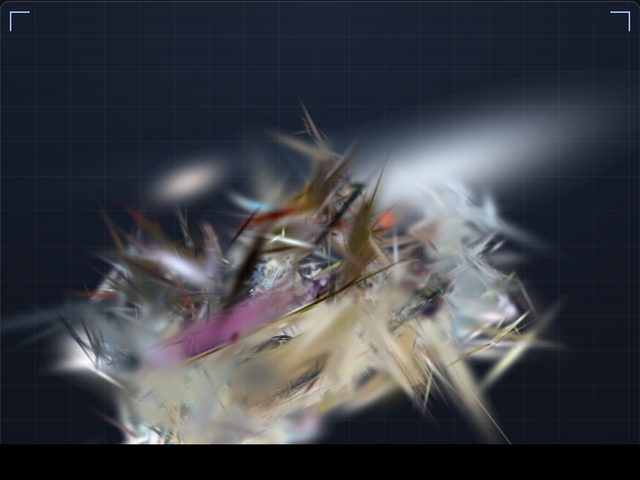
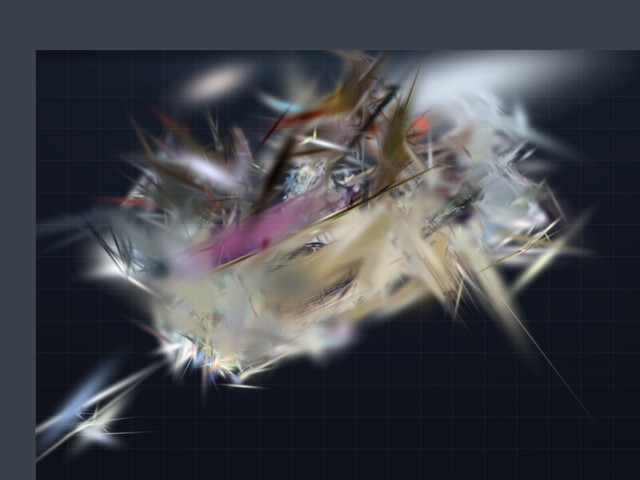
feat(展示): 三张鞋卡片各配真实缩略图 + 标题改成实验①②③ + 无指标显示「未测」
三张卡片原先共用同一张旧缩略图（裁切前的渲染、带视图角标、主体偏心），场景库里完全分不出差别。

- 新增 pipeline/make_thumb.py：从查看器截图裁缩略图。踩过的坑 → 按整图百分比裁必然混进 UI：
  画布 894px 比视口 692px 高、主体落在折叠线以下，且吸顶 header（sticky/z=10/63px）会盖住画布顶部。
  正确流程：JS 把画布 scrollIntoView + 按 header 底部裁剪取景矩形 → 截图 → 工具在矩形内按
  「高饱和或明显亮于背景」找主体包围盒（深色网格与浅灰文字都不满足）→ 留 14% 边距、4:3 输出 640×480。
  三张图都经 vision 复核，确认无 UI 元素混入（先前未复核时混进过简介文字）。
- shoe / shoe-clean / shoe-37 各换自己的缩略图，三份 md5 互不相同，线上与本地一致
- 标题改为「运动鞋 ① 原版 / ② 后处理版 / ③ 重训版」，三份简介都点明是同一物体的三个实验
- 前端「待回写」→「未测」（MetricsPanel.tsx / SceneCard.tsx），shoe-clean 简介写明为何不填指标（不编数字）
- 线上核对：标题与 thumbnail_url 已更新、三个缩略图 md5 一致、打包产物含「未测」、verify-cloud 7/7

diff --git a/frontend/src/components/MetricsPanel.tsx b/frontend/src/components/MetricsPanel.tsx
@@ -51,17 +51,17 @@ export default function MetricsPanel({ scene, live, fpsHistory = [] }: Props) {
           <Row
             label="PSNR"
             value={declared?.psnr != null ? declared.psnr.toFixed(2) : '—'}
-            hint={declared?.psnr == null ? '待回写' : 'dB'}
+            hint={declared?.psnr == null ? '未测' : 'dB'}
           />
           <Row
             label="SSIM"
             value={declared?.ssim != null ? declared.ssim.toFixed(4) : '—'}
-            hint={declared?.ssim == null ? '待回写' : undefined}
+            hint={declared?.ssim == null ? '未测' : undefined}
           />
           <Row
             label="LPIPS"
             value={declared?.lpips != null ? declared.lpips.toFixed(4) : '—'}
-            hint={declared?.lpips == null ? '待回写' : undefined}
+            hint={declared?.lpips == null ? '未测' : undefined}
           />
           <Row label="迭代步数" value={formatCount(declared?.iterations ?? null)} />
           <Row label="训练耗时" value={formatDuration(declared?.train_seconds ?? null)} />

diff --git a/frontend/src/components/SceneCard.tsx b/frontend/src/components/SceneCard.tsx
@@ -33,7 +33,7 @@ export default function SceneCard({ scene }: Props) {
           </div>
           <div>
             <dt>PSNR</dt>
-            <dd>{scene.psnr != null ? scene.psnr.toFixed(2) : '待回写'}</dd>
+            <dd>{scene.psnr != null ? scene.psnr.toFixed(2) : '未测'}</dd>
           </div>
           <div>
             <dt>来源</dt>

diff --git a/pipeline/make_thumb.py b/pipeline/make_thumb.py
@@ -1,0 +1,96 @@
+#!/usr/bin/env python3
+"""make_thumb.py —— 从查看器截图里裁出一张干净的场景缩略图。
+
+为什么需要它：网页截图里除了 3D 画布还有导航栏、简介文字、指标面板，而且画布常常比视口高
+（鞋子落在折叠线以下），按整图百分比裁切必然混进 UI。正确做法是：
+  1) 先把画布 scrollIntoView 再截图（由调用方用 JS 做），
+  2) 把「画布在屏幕上的矩形」传进来（CSS 像素 × dpr），只在矩形内取景，
+  3) 在矩形内用「高饱和 + 高亮度」找出物体包围盒（深色网格背景与浅灰文字都不满足），
+     再向外留边距、按 4:3 输出 —— 主体自然居中，且不会沾到任何界面元素。
+
+用法：
+  python pipeline/make_thumb.py shot.png -o out.jpg --rect x y w h
+"""
+from __future__ import annotations
+
+import argparse
+from pathlib import Path
+
+import numpy as np
+from PIL import Image
+
+
+def object_bbox(img: Image.Image) -> tuple[int, int, int, int] | None:
+    """找画面里的主体包围盒（高饱和 或 明显亮于背景的像素）。找不到返回 None。"""
+    a = np.asarray(img.convert("RGB"), dtype=np.float32) / 255.0
+    mx = a.max(axis=2)
+    mn = a.min(axis=2)
+    sat = np.where(mx > 0, (mx - mn) / np.maximum(mx, 1e-6), 0.0)
+    val = mx
+    hist = np.bincount((val * 255).astype(np.uint8).ravel(), minlength=256).astype(np.float64)
+    bg = float(np.argmax(hist)) / 255.0  # 众数亮度 ≈ 背景
+    # 背景是暗色网格：只保留"明显更亮"或"明显有颜色"的像素
+    mask = ((val > bg + 0.10) & (sat > 0.45)) | (val > bg + 0.16)
+    if mask.sum() < 200:
+        return None
+    ys, xs = np.nonzero(mask)
+    # 用分位数而非极值，避免个别飘点把框撑大
+    x0, x1 = np.percentile(xs, [1, 99]).astype(int)
+    y0, y1 = np.percentile(ys, [1, 99]).astype(int)
+    return int(x0), int(y0), int(x1), int(y1)
+
+
+def main() -> int:
+    ap = argparse.ArgumentParser()
+    ap.add_argument("shot", type=Path)
+    ap.add_argument("-o", "--out", type=Path, required=True)
+    ap.add_argument("--rect", type=float, nargs=4, required=True, metavar=("X", "Y", "W", "H"),
+                    help="画布在截图里的矩形（与截图同坐标系；调用方用 JS 的 getBoundingClientRect 读）")
+    ap.add_argument("--size", type=int, default=640, help="输出宽度")
+    ap.add_argument("--aspect", type=float, default=4 / 3, help="输出宽高比（默认 4:3）")
+    ap.add_argument("--margin", type=float, default=0.14, help="物体周围留白比例")
+    args = ap.parse_args()
+
+    shot = Image.open(args.shot).convert("RGB")
+    W, H = shot.size
+    x, y, w, h = args.rect
+    box = (max(0, int(x)), max(0, int(y)), min(W, int(x + w)), min(H, int(y + h)))
+    if box[2] - box[0] < 40 or box[3] - box[1] < 40:
+        print(f"❌ 画布矩形太小或越界：{box}（截图 {shot.size}）")
+        return 2
+    canvas = shot.crop(box)
+
+    bb = object_bbox(canvas)
+    if bb is None:
+        print("⚠ 没找到主体（画面可能还没渲染完），退化为画布居中裁切")
+        bb = (0, 0, canvas.size[0], canvas.size[1])
+    bx0, by0, bx1, by1 = bb
+    bw, bh = bx1 - bx0, by1 - by0
+    exp = 1.0 + 2 * args.margin
+    cx, cy = (bx0 + bx1) / 2, (by0 + by1) / 2
+    tw, th = bw * exp, bh * exp
+    if tw / th > args.aspect:      # 框太宽 → 按高度撑满
+        th = tw / args.aspect
+    else:
+        tw = th * args.aspect
+    l, t = cx - tw / 2, cy - th / 2
+    r, b = cx + tw / 2, cy + th / 2
+    # 先把取景框夹进画布内，再用画布背景色补齐（不引入画布外的界面像素）
+    pad = int(max(0, -l, -t, r - canvas.size[0], b - canvas.size[1])) + 2
+    if pad:
+        bgcol = tuple(int(v) for v in np.asarray(canvas).reshape(-1, 3)[0])
+        padded = Image.new("RGB", (canvas.size[0] + 2 * pad, canvas.size[1] + 2 * pad), bgcol)
+        padded.paste(canvas, (pad, pad))
+        l, t, r, b = l + pad, t + pad, r + pad, b + pad
+        canvas = padded
+    crop = canvas.crop((int(l), int(t), int(r), int(b)))
+    out = crop.resize((args.size, int(round(args.size / args.aspect))), Image.LANCZOS)
+    args.out.parent.mkdir(parents=True, exist_ok=True)
+    out.save(args.out, quality=90, optimize=True)
+    print(f"✅ {args.out}  {out.size}  {args.out.stat().st_size:,} bytes"
+          f"（画布 {box[2]-box[0]}×{box[3]-box[1]} → 主体框 {bw}×{bh}）")
+    return 0
+
+
+if __name__ == "__main__":
+    raise SystemExit(main())
